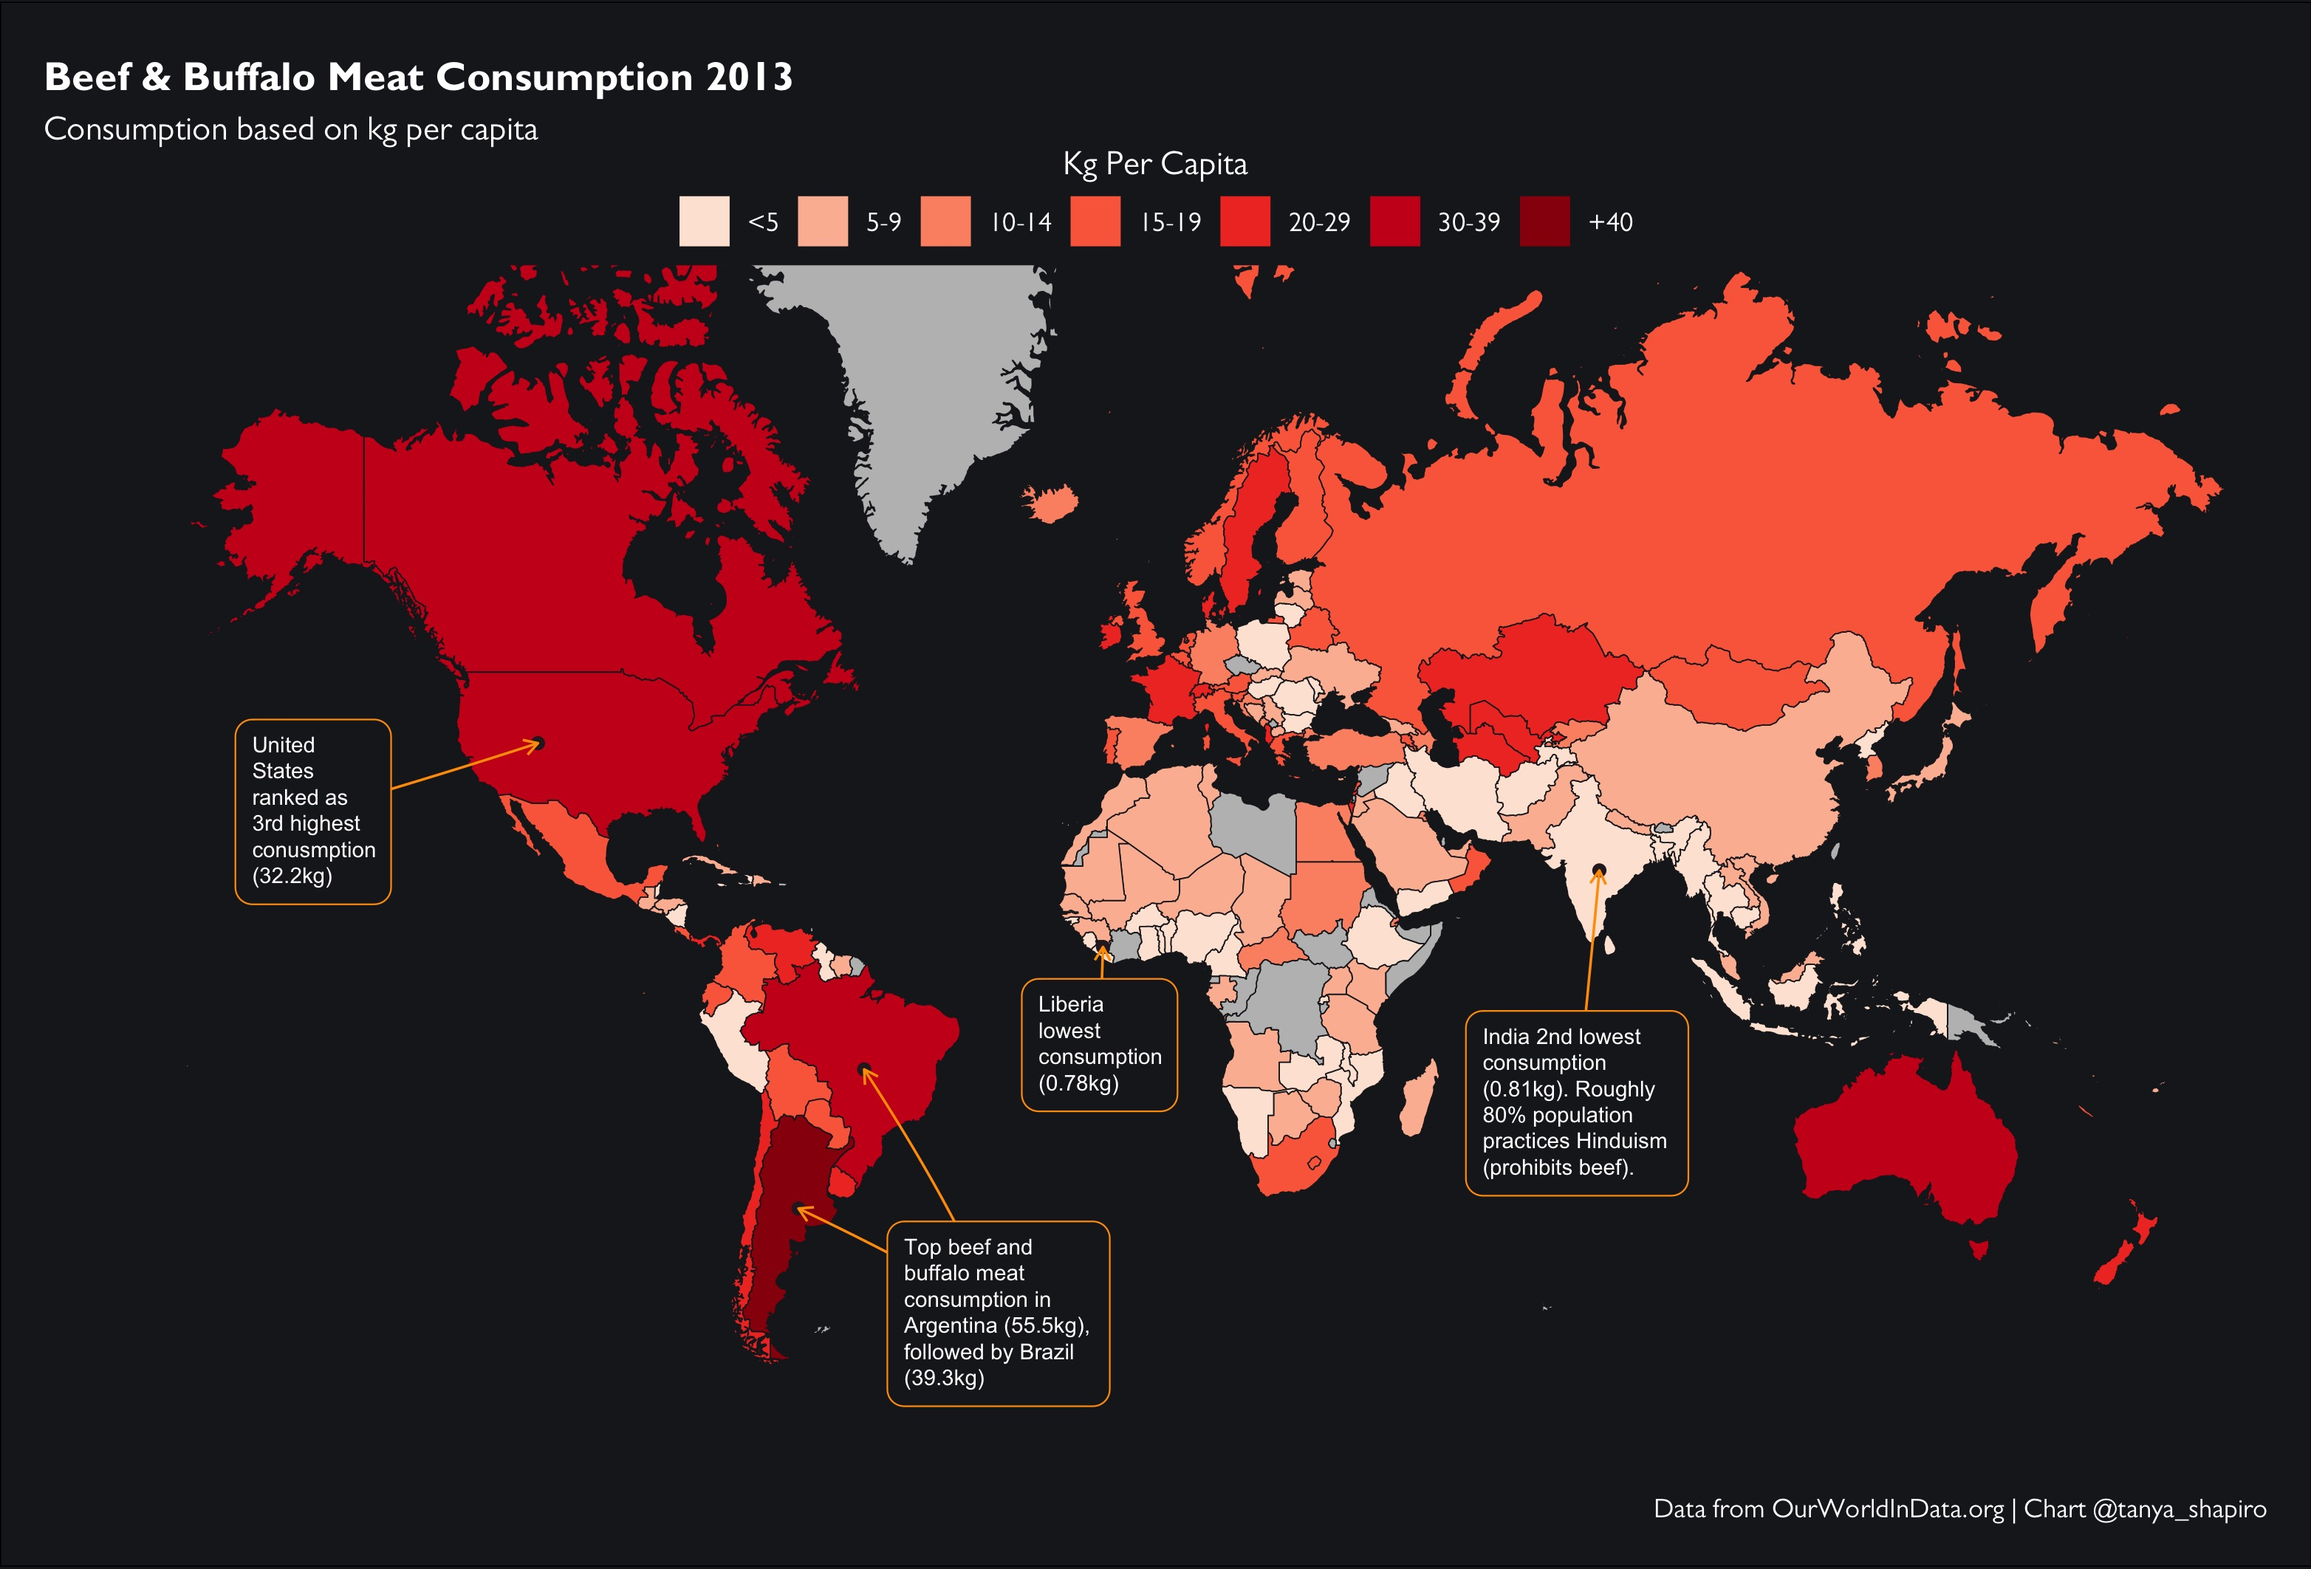
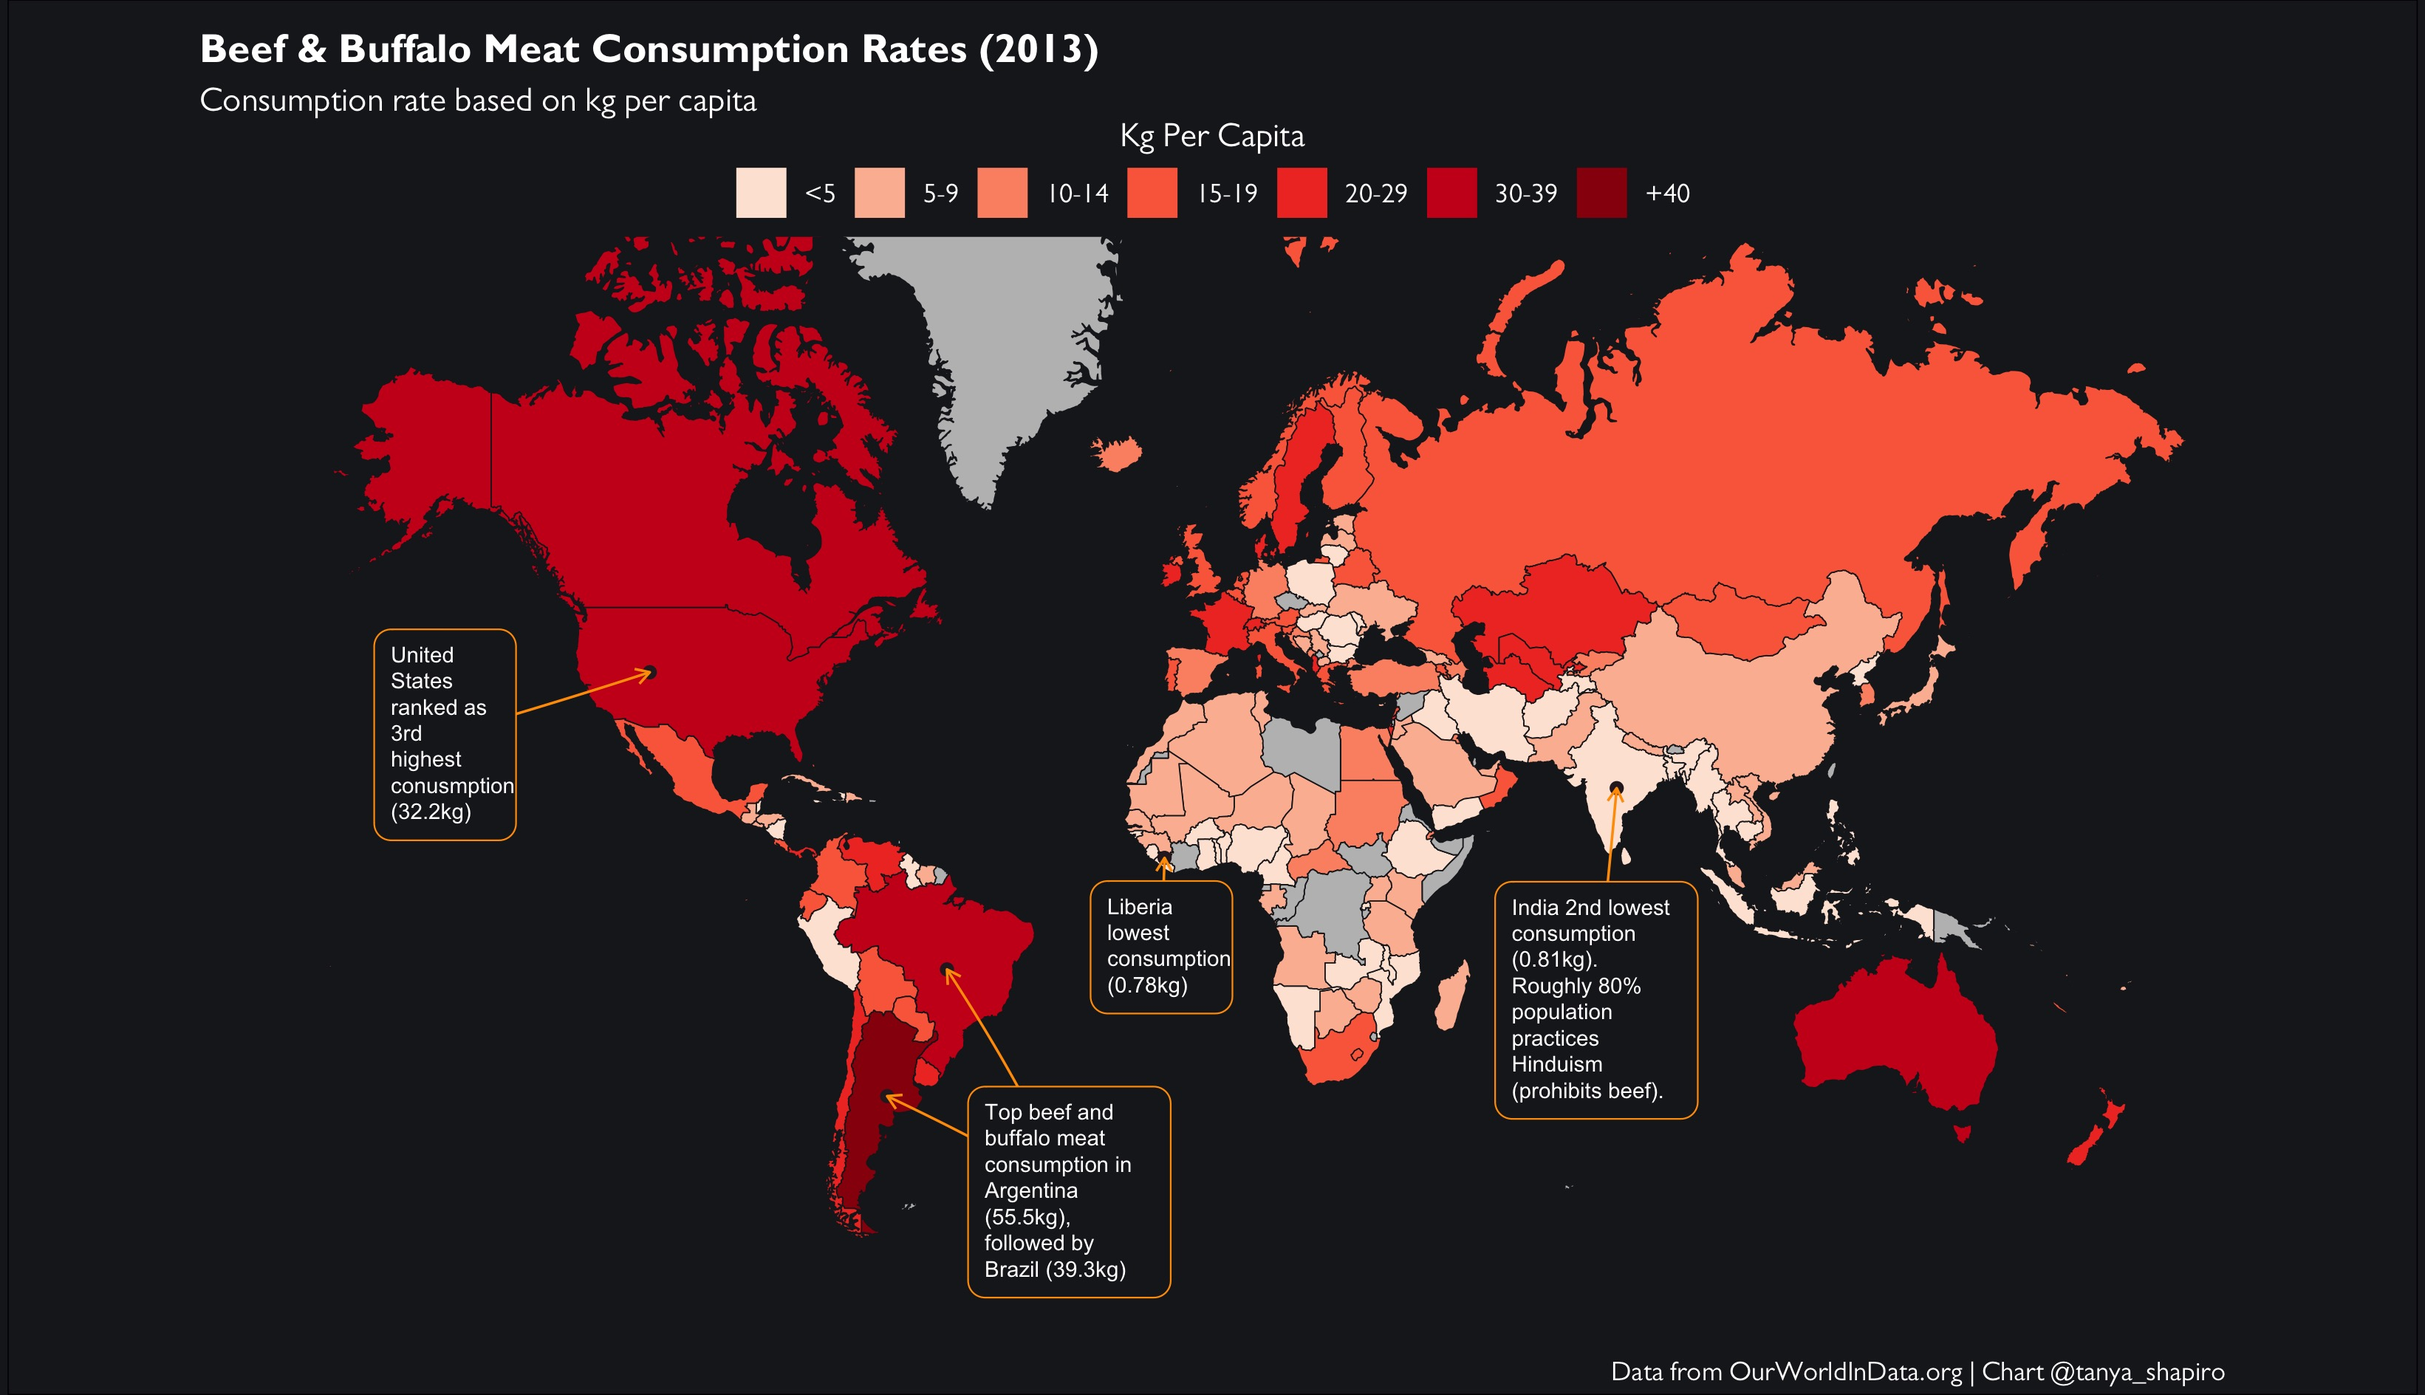
Updated red map challenge

diff --git a/README.md b/README.md
@@ -22,3 +22,9 @@ November 4th is National Candy Day. Dedicating this map to all the Mars candy fa
 Used R osmdata library along with ggplot to render a map of my hometown, Basel, Switzerland. 
 
 ![plot](./basel-openstreetmap/basel_map_dark_light.png)
+
+
+## **Day 6 - Red | World Beef & Buffalo Consumption by Country (2013)**
+Used R osmdata library along with ggplot to render a map of my hometown, Basel, Switzerland. 
+
+![plot](./red-beef-map/red_beef_map.jpeg)
